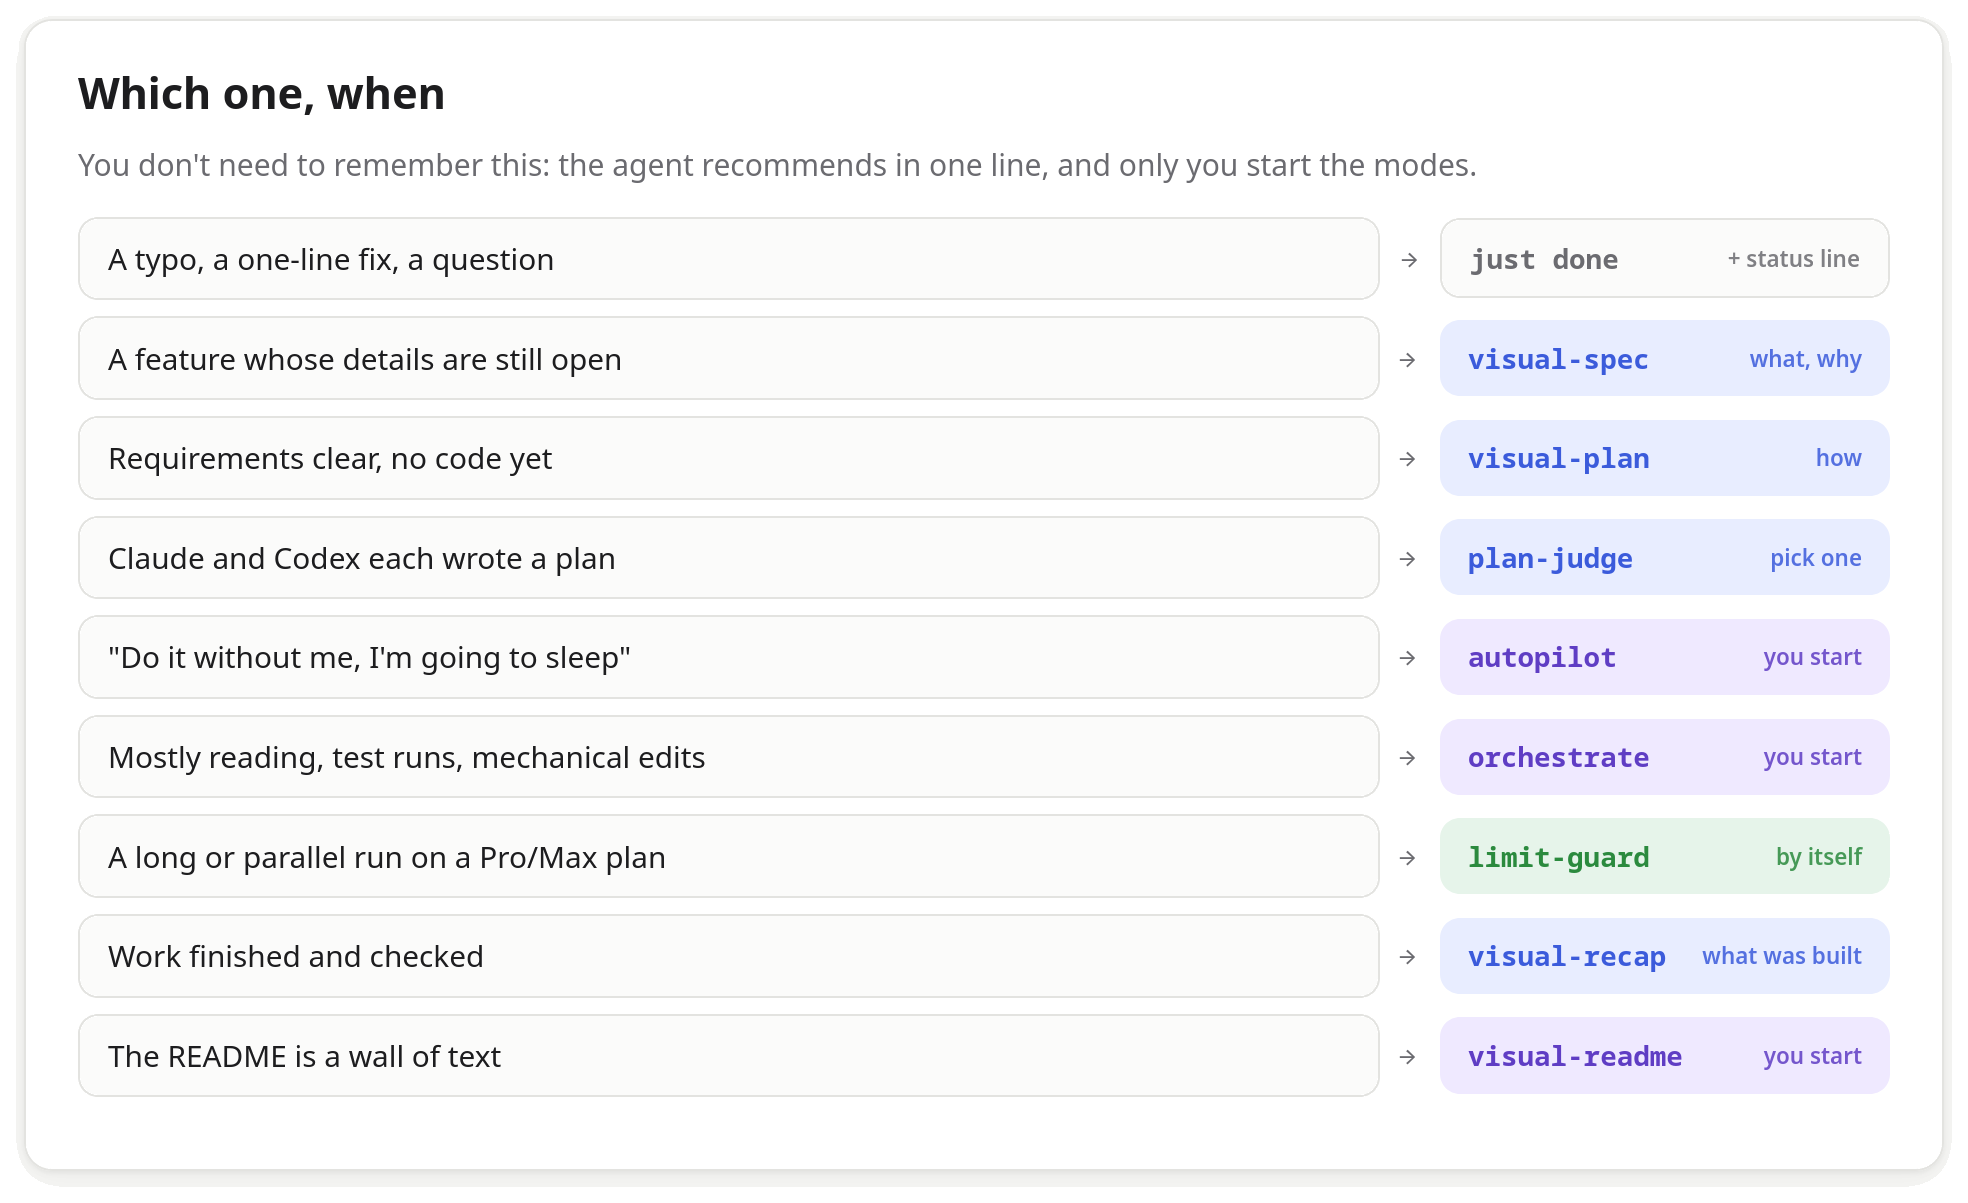
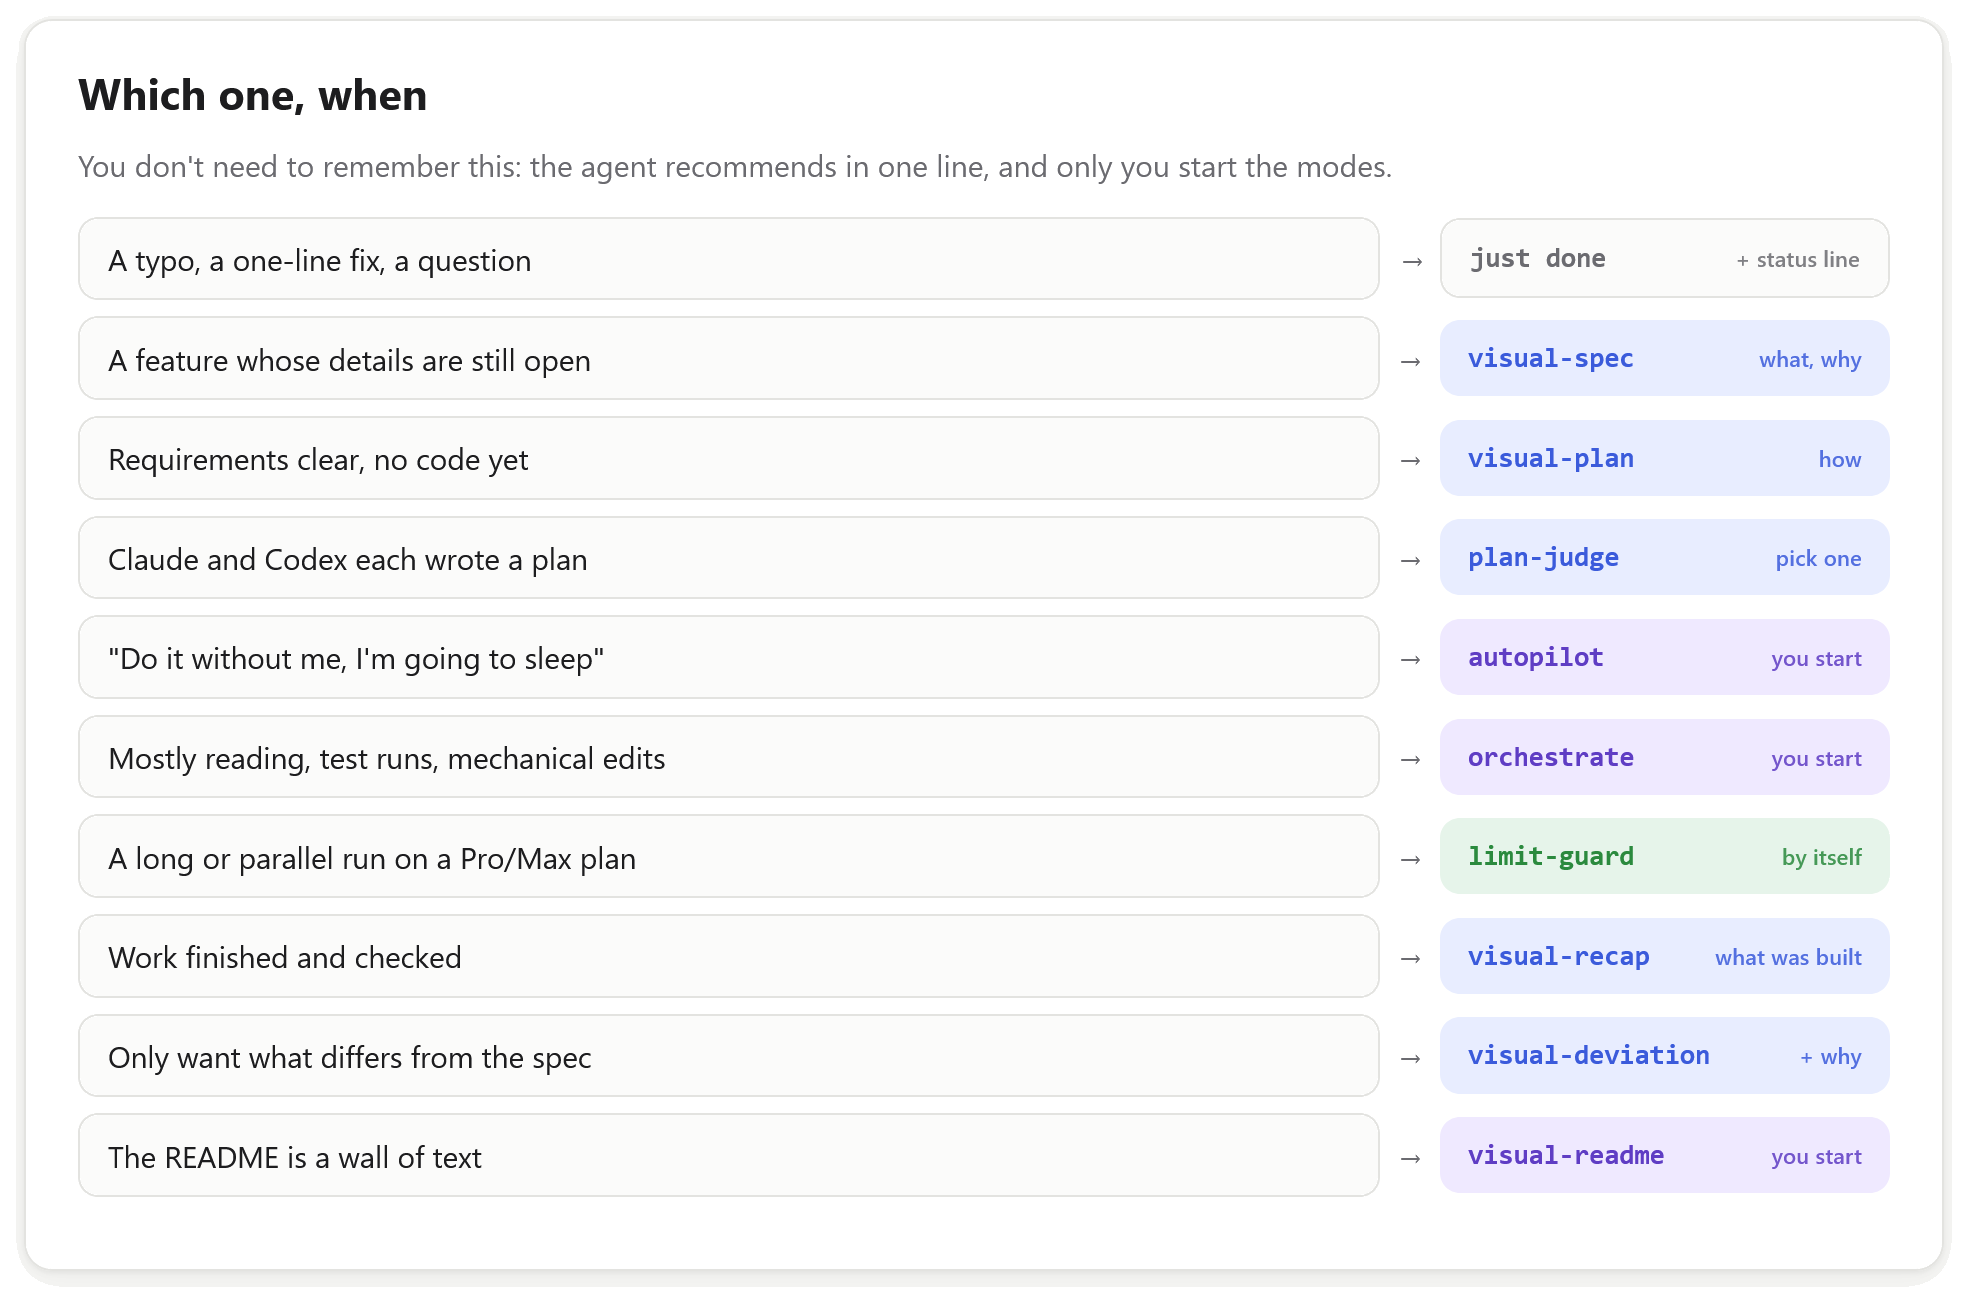
Document visual-deviation in the README and the session hook
The README pictures and text, the plugin description and the session hook now cover
/suwagent:visual-deviation. The hook and the README also give the recommendation for
git: plans and recaps go in .gitignore, specs and deviation pages are committed together.

diff --git a/docs/visual/board/readme.html b/docs/visual/board/readme.html
@@ -364,7 +364,7 @@ pre.out { font: 12px/1.5 var(--mono); background: var(--code-bg); border: 1px so
       <span class="doc-kind">Claude Code plugin</span>
       <h1>suwagent</h1>
       <p class="lead">Review your coding agent's work on <b>visual pages</b>, not walls of text.</p>
-      <span class="tag accent">📄 spec → plan → recap</span>
+      <span class="tag accent">📄 spec → plan → recap / deviation</span>
       <span class="tag ok">🟢 🟡 🔴 status line</span>
       <span class="tag note">⚙ autopilot · orchestrate</span>
       <span class="tag">📚 docs before code</span>
@@ -381,8 +381,8 @@ pre.out { font: 12px/1.5 var(--mono); background: var(--code-bg); border: 1px so
       </div>
     </div>
     <div class="stats">
-      <div><b>3</b><span>kinds of page: spec, plan, recap</span></div>
-      <div><b>10</b><span>skills, started by you or the agent</span></div>
+      <div><b>4</b><span>kinds of page: spec, plan, recap, deviation</span></div>
+      <div><b>12</b><span>skills, started by you or the agent</span></div>
       <div><b>1</b><span>hook: the same rules in every project</span></div>
       <div><b>0</b><span>accounts or API keys to set up</span></div>
     </div>
@@ -431,6 +431,7 @@ pre.out { font: 12px/1.5 var(--mono); background: var(--code-bg); border: 1px so
       <div class="foot"><span class="tag ok">tests ✓</span></div></div>
     <div><span class="tag accent">visual-recap</span><h4>Recap</h4><p class="when">what was built, no diffs</p>
       <ul><li>roles and a walkthrough</li><li>annotated screenshots</li><li>criteria ✓ ✓ ✓ ✗</li><li>where to look carefully</li></ul>
+      <p class="when">or <b>visual-deviation</b>: only what differs from the spec, and why</p>
       <div class="foot"><span class="btn ok">✅ Approve</span></div></div>
   </div>
   <div class="strip">
@@ -439,6 +440,11 @@ pre.out { font: 12px/1.5 var(--mono); background: var(--code-bg); border: 1px so
     <span class="btn ok">✅ Approve</span> or <span class="btn warn">✏ Request changes</span>
     → <span class="btn primary">Copy feedback for the agent</span> → the same page is updated
   </div>
+  <div class="strip">
+    <span class="lbl">In git, recommended</span>
+    <span class="tag warn">.gitignore</span> plan + recap <code>docs/visual/plan/</code> <code>docs/visual/recap/</code> ·
+    <span class="tag ok">commit</span> spec + deviation
+  </div>
   <div class="term">🟢 <b>CSV export ready</b>, 14 tests pass
 🟡 <b>Migration written</b>, not run on staging yet
 🔴 <b>Need the Stripe test key</b> to continue</div>
@@ -446,10 +452,11 @@ pre.out { font: 12px/1.5 var(--mono); background: var(--code-bg); border: 1px so
 
 <section id="skills">
   <div class="group">📄 Visual documents</div>
-  <div class="cards" style="--cols:5">
+  <div class="cards" style="--cols:3">
     <div><span class="ico">🎯</span><h4><code>visual-spec</code></h4><p class="when">before planning a larger change</p><p>problem, goals, scenarios, edge cases, UI sketches, acceptance criteria</p><div class="foot"><span class="tag accent">what and why</span></div></div>
     <div><span class="ico">🗺</span><h4><code>visual-plan</code></h4><p class="when">before writing code</p><p>decisions, architecture diagram, file map, ordered steps, risks</p><div class="foot"><span class="tag accent">how</span></div></div>
     <div><span class="ico">🔍</span><h4><code>visual-recap</code></h4><p class="when">after the work is done</p><p>roles, a real scenario, annotated screenshots, criteria with evidence</p><div class="foot"><span class="tag accent">what was built</span></div></div>
+    <div><span class="ico">↔</span><h4><code>visual-deviation</code></h4><p class="when">you want only the differences</p><p>where the build departs from the spec: promised vs built, why, keep / fix / decide</p><div class="foot"><span class="tag accent">commit with the spec</span></div></div>
     <div><span class="ico">⚖</span><h4><code>plan-judge</code></h4><p class="when">2+ plans for one task</p><p>compared against the real code: adopt, merge or send back</p><div class="foot"><span class="tag accent">several plans → 1</span></div></div>
     <div><span class="ico">🖼</span><h4><code>visual-readme</code></h4><p class="when">when you ask for it</p><p>a README told in pictures like these, light and dark, redrawn from one source page</p><div class="foot"><span class="tag note">you start it</span></div></div>
   </div>
@@ -474,6 +481,7 @@ pre.out { font: 12px/1.5 var(--mono); background: var(--code-bg); border: 1px so
     <div class="if">Mostly reading, test runs, mechanical edits</div><div class="then note">orchestrate <small>you start</small></div>
     <div class="if">A long or parallel run on a Pro/Max plan</div><div class="then ok">limit-guard <small>by itself</small></div>
     <div class="if">Work finished and checked</div><div class="then">visual-recap <small>what was built</small></div>
+    <div class="if">Only want what differs from the spec</div><div class="then">visual-deviation <small>+ why</small></div>
     <div class="if">The README is a wall of text</div><div class="then note">visual-readme <small>you start</small></div>
   </div>
 </section>

diff --git a/README.md b/README.md
@@ -1,6 +1,6 @@
 <picture>
   <source media="(prefers-color-scheme: dark)" srcset="docs/visual/board/img/readme/hero-dark.png">
-  <img alt="suwagent, a Claude Code plugin: review your coding agent's work on visual pages, not walls of text. Spec → plan → recap, a 🟢🟡🔴 status line, autopilot and orchestrate, docs before code. 3 kinds of page, 10 skills, 1 hook, 0 accounts or API keys." src="docs/visual/board/img/readme/hero-light.png" width="100%">
+  <img alt="suwagent, a Claude Code plugin: review your coding agent's work on visual pages, not walls of text. Spec → plan → recap or deviation, a 🟢🟡🔴 status line, autopilot and orchestrate, docs before code. 4 kinds of page, 12 skills, 1 hook, 0 accounts or API keys." src="docs/visual/board/img/readme/hero-light.png" width="100%">
 </picture>
 
 ## Install
@@ -30,12 +30,30 @@ Requirements: `git` and `python3` (standard library only).
 
 <picture>
   <source media="(prefers-color-scheme: dark)" srcset="docs/visual/board/img/readme/flow-dark.png">
-  <img alt="One larger task: Spec (what and why, approve) → Plan (how, approve) → Build (only after approval, docs first, optionally autopilot or orchestrate) → Recap (what was built, criteria checked). On every page: comment, answer questions, Approve or Request changes, Copy feedback for the agent, and the same page is updated. Answers end with a status line: 🟢 done, 🟡 pending, 🔴 waiting for you." src="docs/visual/board/img/readme/flow-light.png" width="100%">
+  <img alt="One larger task: Spec (what and why, approve) → Plan (how, approve) → Build (only after approval, docs first, optionally autopilot or orchestrate) → Recap (what was built, criteria checked), or visual-deviation (only what differs from the spec, and why). On every page: comment, answer questions, Approve or Request changes, Copy feedback for the agent, and the same page is updated. In git, recommended: plan and recap in .gitignore (docs/visual/plan/, docs/visual/recap/), spec and deviation committed. Answers end with a status line: 🟢 done, 🟡 pending, 🔴 waiting for you." src="docs/visual/board/img/readme/flow-light.png" width="100%">
 </picture>
 
 You don't have to remember any command: the agent offers each page in one line when a task is big
-enough. Every page is a self-contained HTML file in `docs/visual/<spec|plan|recap>/`, and by
+enough. Every page is a self-contained HTML file in `docs/visual/<spec|plan|recap|deviation>/`, and by
 default also a private claude.ai artifact you can open and comment on from any device.
+
+`/suwagent:visual-deviation` is the short alternative to a recap: only where the build departs from
+the spec, each difference with what was promised, what was built, why, and keep / fix / decide.
+Use it when you know the spec and don't need the whole story.
+
+**What goes into git.** Recommended: plans and recaps in `.gitignore`, specs and deviation pages
+committed. Plans and recaps are working pages of one task; the spec and the deviation page stay true
+after the work is merged (the contract, and where the build consciously departs from it), so they go
+in together.
+
+```gitignore
+# suwagent: working pages of one task
+docs/visual/plan/
+docs/visual/recap/
+```
+
+The agent offers to add these lines when it writes a plan or recap in a repository that doesn't
+ignore them yet.
 
 This is what one looks like — [the recap of this repository](docs/visual/recap/2026-10-25-suwagent-plugin.html), in Polish:
 
@@ -48,12 +66,12 @@ This is what one looks like — [the recap of this repository](docs/visual/recap
 
 <picture>
   <source media="(prefers-color-scheme: dark)" srcset="docs/visual/board/img/readme/skills-dark.png">
-  <img alt="Visual documents: visual-spec (what and why), visual-plan (how), visual-recap (what was built), plan-judge (several plans into one), visual-readme (you start it; a README told in pictures, light and dark). Ways of working: autopilot (you start it; no routine questions, decisions logged), orchestrate (you start it; the main model decides, haiku and sonnet subagents do the volume), limit-guard (pauses at 90% of the 5-hour or 95% of the weekly limit), mandatory-docs (automatic; official docs of the installed version)." src="docs/visual/board/img/readme/skills-light.png" width="100%">
+  <img alt="Visual documents: visual-spec (what and why), visual-plan (how), visual-recap (what was built), visual-deviation (only the differences from the spec; commit it with the spec), plan-judge (several plans into one), visual-readme (you start it; a README told in pictures, light and dark). Ways of working: autopilot (you start it; no routine questions, decisions logged), orchestrate (you start it; the main model decides, haiku and sonnet subagents do the volume), limit-guard (pauses at 90% of the 5-hour or 95% of the weekly limit), mandatory-docs (automatic; official docs of the installed version)." src="docs/visual/board/img/readme/skills-light.png" width="100%">
 </picture>
 
 <picture>
   <source media="(prefers-color-scheme: dark)" srcset="docs/visual/board/img/readme/choose-dark.png">
-  <img alt="Which one, when: a typo or question → just done; details still open → visual-spec; requirements clear → visual-plan; two plans → plan-judge; 'do it without me' → autopilot; mostly reading, tests, mechanical edits → orchestrate; a long run on Pro/Max → limit-guard; work finished → visual-recap; the README is a wall of text → visual-readme." src="docs/visual/board/img/readme/choose-light.png" width="100%">
+  <img alt="Which one, when: a typo or question → just done; details still open → visual-spec; requirements clear → visual-plan; two plans → plan-judge; 'do it without me' → autopilot; mostly reading, tests, mechanical edits → orchestrate; a long run on Pro/Max → limit-guard; work finished → visual-recap; only what differs from the spec → visual-deviation; the README is a wall of text → visual-readme." src="docs/visual/board/img/readme/choose-light.png" width="100%">
 </picture>
 
 All skills are invoked as `/suwagent:<name>`; `/suwagent:efficient-frontier` is an alias of
@@ -67,7 +85,7 @@ only when you say so. On a branch that is already part of a chain, the agent fol
 without being asked.
 
 The pictures in this README were made by `/suwagent:visual-readme`: panels on a board page,
-drawn with the same styles as the spec, plan and recap pages and rendered in both themes.
+drawn with the same styles as the spec, plan, recap and deviation pages and rendered in both themes.
 
 <details>
 <summary><b>orchestrate</b> and <b>limit-guard</b>, inside</summary>
@@ -177,7 +195,7 @@ After editing the plugin in a running session, run `/reload-plugins`.
 .claude-plugin/marketplace.json     the catalog: lists the plugins in this repository
 plugins/suwagent/
   .claude-plugin/plugin.json        manifest: name, description, userConfig
-  skills/visual-{spec,plan,recap}/  the visual document skills (SKILL.md each)
+  skills/visual-{spec,plan,recap,deviation}/  the visual document skills (SKILL.md each)
   skills/visual-readme/             the README told in pictures, from a board page
   skills/mandatory-docs/            docs-before-code procedure
   skills/autopilot/ orchestrate/ plan-judge/ limit-guard/   ways of working

diff --git a/plugins/suwagent/hooks/context/visual-workflow.md b/plugins/suwagent/hooks/context/visual-workflow.md
@@ -1,10 +1,12 @@
-This user reviews agent work through visual HTML pages instead of long chat text, using three skills: /suwagent:visual-spec (what and why), /suwagent:visual-plan (how) and /suwagent:visual-recap (what was built and how it works). The pages are saved under docs/visual/<spec|plan|recap>/ and, by default, also published as claude.ai artifacts, whose links are recorded in docs/visual/<kind>/claude-artifacts.md.
+This user reviews agent work through visual HTML pages instead of long chat text, using four skills: /suwagent:visual-spec (what and why), /suwagent:visual-plan (how), /suwagent:visual-recap (what was built and how it works) and /suwagent:visual-deviation (only where the implementation departs from the spec, and why). The pages are saved under docs/visual/<spec|plan|recap|deviation>/ and, by default, also published as claude.ai artifacts, whose links are recorded in docs/visual/<kind>/claude-artifacts.md.
 
 The user's working agreement for larger changes (a new feature, several files, a change of behaviour, an API or data shape, or a choice between approaches):
 - Before planning, offer in one line to write a visual spec, unless the requirements are already pinned down or an approved spec exists.
 - Before writing code, offer a visual plan, and start implementing only after the user approves it.
-- After the work is finished and verified, offer a visual recap.
+- After the work is finished and verified, offer a visual recap. When a spec exists and the user wants only the differences rather than the whole story, or a record to keep in the repository next to the spec, offer /suwagent:visual-deviation instead: a short page with each departure from the spec, its reason and a keep / fix / decide recommendation.
 - When the user declines one of these for a task, don't offer it again for that task.
+
+What goes into git, the user's recommendation for every repository: plans and recaps are gitignored (docs/visual/plan/ and docs/visual/recap/ in .gitignore), because they are working pages of one task; specs and deviation pages are committed, together, because they stay true after the work is merged (the contract, and where the build consciously departs from it). When the agent writes a plan or recap in a repository whose .gitignore doesn't cover them yet (check with `git check-ignore`), it recommends adding those two lines in one line, and adds them only when the user agrees; after a no, it doesn't ask again in that repository.
 
 When the user asks for a better, nicer or more visual README, recommend /suwagent:visual-readme in one line; start it only when the user asks for it. It redraws the README as light/dark pictures from a board page in docs/visual/board/.
 
